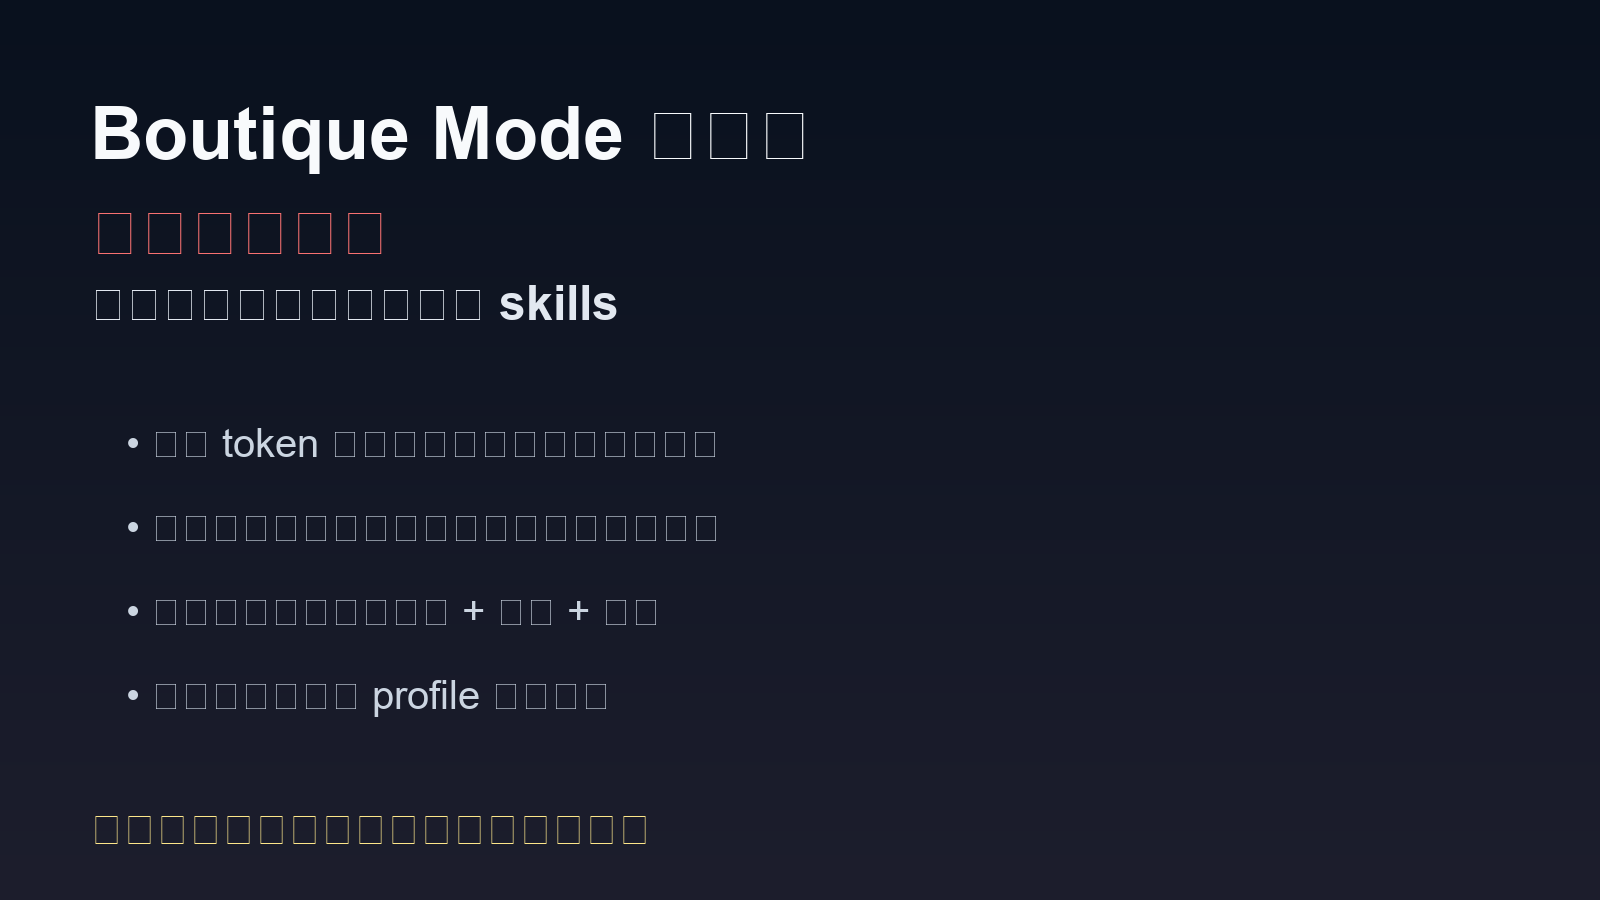
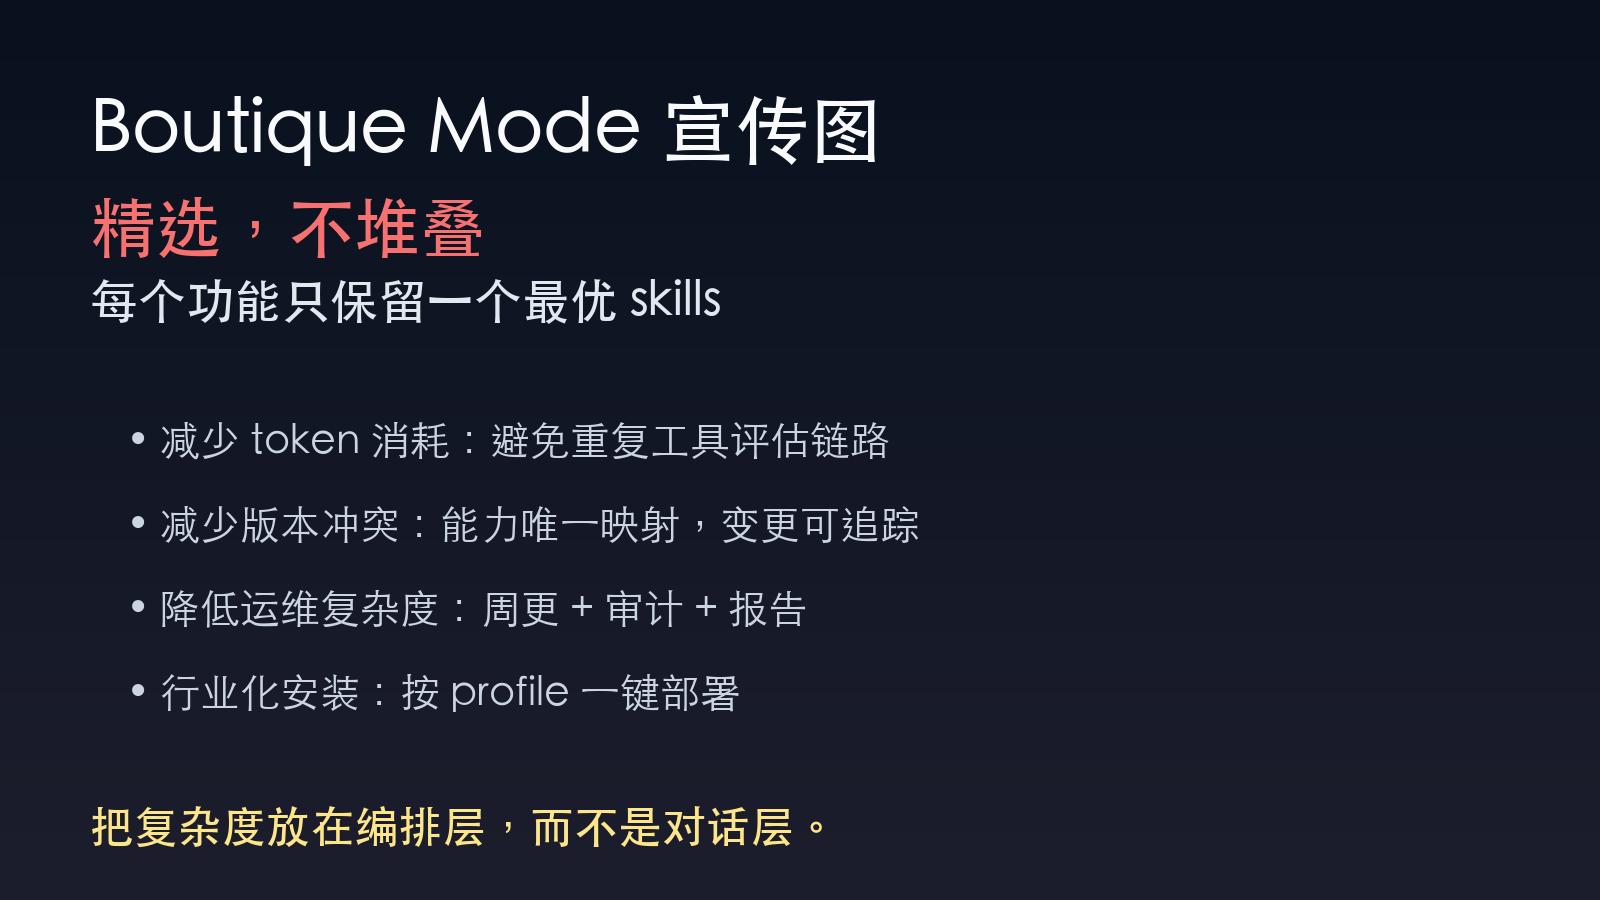
design: fix CJK font rendering in generated assets

diff --git a/scripts/generate_assets.py b/scripts/generate_assets.py
@@ -1,5 +1,6 @@
 #!/usr/bin/env python3
 from pathlib import Path
+import re
 from PIL import Image, ImageDraw, ImageFont
 
 ROOT = Path(__file__).resolve().parents[1]
@@ -7,18 +8,45 @@ ASSETS = ROOT / "assets"
 ASSETS.mkdir(parents=True, exist_ok=True)
 
 
-def pick_font(size: int, bold: bool = False):
-    candidates = []
-    if bold:
-        candidates += [
-            "/System/Library/Fonts/Supplemental/Arial Bold.ttf",
-            "/System/Library/Fonts/Supplemental/Helvetica.ttc",
-        ]
-    candidates += [
-        "/System/Library/Fonts/Supplemental/Arial.ttf",
-        "/System/Library/Fonts/Supplemental/Menlo.ttc",
-        "/System/Library/Fonts/SFNS.ttf",
-    ]
+CJK_RE = re.compile(r"[\u3400-\u4dbf\u4e00-\u9fff\uf900-\ufaff\u3000-\u303f]")
+
+LATIN_BOLD_CANDIDATES = [
+    "/System/Library/Fonts/Supplemental/Arial Bold.ttf",
+    "/System/Library/Fonts/Supplemental/Helvetica.ttc",
+]
+LATIN_REGULAR_CANDIDATES = [
+    "/System/Library/Fonts/Supplemental/Arial.ttf",
+    "/System/Library/Fonts/Supplemental/Menlo.ttc",
+    "/System/Library/Fonts/SFNS.ttf",
+]
+CJK_BOLD_CANDIDATES = [
+    "/System/Library/Fonts/STHeiti Medium.ttc",
+    "/System/Library/Fonts/Hiragino Sans GB.ttc",
+    "/System/Library/Fonts/Supplemental/Arial Unicode.ttf",
+]
+CJK_REGULAR_CANDIDATES = [
+    "/System/Library/Fonts/STHeiti Light.ttc",
+    "/System/Library/Fonts/Hiragino Sans GB.ttc",
+    "/System/Library/Fonts/Songti.ttc",
+    "/System/Library/Fonts/Supplemental/Arial Unicode.ttf",
+]
+
+
+def contains_cjk(text: str) -> bool:
+    return bool(CJK_RE.search(text))
+
+
+def pick_font(size: int, bold: bool = False, text: str = "", prefer_cjk: bool | None = None):
+    if prefer_cjk is None:
+        prefer_cjk = contains_cjk(text)
+
+    if prefer_cjk:
+        candidates = (CJK_BOLD_CANDIDATES if bold else CJK_REGULAR_CANDIDATES) + \
+            LATIN_BOLD_CANDIDATES + LATIN_REGULAR_CANDIDATES
+    else:
+        candidates = (LATIN_BOLD_CANDIDATES if bold else []) + LATIN_REGULAR_CANDIDATES + \
+            CJK_BOLD_CANDIDATES + CJK_REGULAR_CANDIDATES
+
     for c in candidates:
         p = Path(c)
         if p.exists():
@@ -94,13 +122,19 @@ def draw_logo() -> None:
     draw_store_icon(d, 70, 72)
     draw_lobster_icon(d, 1190, 72)
 
-    d.text((340, 110), "BOUTIQUE OPENCLAW SKILLS", font=pick_font(58, bold=True), fill="#f8fafc")
-    d.text((342, 186), "精选店模式  |  一功能一技能  |  稳定优先", font=pick_font(38, bold=True), fill="#f87171")
-    d.text((342, 248), "NO DUPLICATE SKILLS · LOW TOKEN WASTE · AUDITED WEEKLY", font=pick_font(30), fill="#cbd5e1")
-    d.text((342, 304), "Theme: Boutique Store + Lobster", font=pick_font(28), fill="#fde68a")
+    line1 = "BOUTIQUE OPENCLAW SKILLS"
+    line2 = "精选店模式  |  一功能一技能  |  稳定优先"
+    line3 = "NO DUPLICATE SKILLS · LOW TOKEN WASTE · AUDITED WEEKLY"
+    line4 = "Theme: Boutique Store + Lobster"
+    line5 = "github.com/leecyno1/boutique-openclaw-skills"
+
+    d.text((340, 110), line1, font=pick_font(58, bold=True, text=line1), fill="#f8fafc")
+    d.text((342, 186), line2, font=pick_font(38, bold=True, text=line2), fill="#f87171")
+    d.text((342, 248), line3, font=pick_font(30, text=line3), fill="#cbd5e1")
+    d.text((342, 304), line4, font=pick_font(28, text=line4), fill="#fde68a")
 
     d.line((340, 350, 1110, 350), fill="#334155", width=2)
-    d.text((340, 380), "github.com/leecyno1/boutique-openclaw-skills", font=pick_font(27), fill="#93c5fd")
+    d.text((340, 380), line5, font=pick_font(27, text=line5), fill="#93c5fd")
 
     img.save(ASSETS / "logo.png", "PNG")
 
@@ -116,9 +150,12 @@ def draw_hero() -> None:
         b = 30 + int((yy / h) * 15)
         d.line((0, yy, w, yy), fill=(r, g, b))
 
-    d.text((90, 92), "Boutique Mode 宣传图", font=pick_font(74, bold=True), fill="#f8fafc")
-    d.text((90, 194), "精选，不堆叠", font=pick_font(66, bold=True), fill="#f87171")
-    d.text((90, 276), "每个功能只保留一个最优 skills", font=pick_font(48, bold=True), fill="#e2e8f0")
+    title1 = "Boutique Mode 宣传图"
+    title2 = "精选，不堆叠"
+    title3 = "每个功能只保留一个最优 skills"
+    d.text((90, 92), title1, font=pick_font(74, bold=True, text=title1), fill="#f8fafc")
+    d.text((90, 194), title2, font=pick_font(66, bold=True, text=title2), fill="#f87171")
+    d.text((90, 276), title3, font=pick_font(48, bold=True, text=title3), fill="#e2e8f0")
 
     bullets = [
         "减少 token 消耗：避免重复工具评估链路",
@@ -128,10 +165,12 @@ def draw_hero() -> None:
     ]
     y = 420
     for line in bullets:
-        d.text((126, y), "• " + line, font=pick_font(40), fill="#cbd5e1")
+        bullet_line = "• " + line
+        d.text((126, y), bullet_line, font=pick_font(40, text=bullet_line), fill="#cbd5e1")
         y += 84
 
-    d.text((90, 804), "把复杂度放在编排层，而不是对话层。", font=pick_font(44, bold=True), fill="#fde68a")
+    footer = "把复杂度放在编排层，而不是对话层。"
+    d.text((90, 804), footer, font=pick_font(44, bold=True, text=footer), fill="#fde68a")
     img.save(ASSETS / "hero.png", "PNG")
 
 
@@ -141,7 +180,8 @@ def draw_quick_nav() -> None:
     d = ImageDraw.Draw(img)
 
     d.rectangle((0, 0, w, 110), fill="#0f172a")
-    d.text((48, 28), "Repository Quick Navigation", font=pick_font(54, bold=True), fill="#f8fafc")
+    nav_title = "Repository Quick Navigation"
+    d.text((48, 28), nav_title, font=pick_font(54, bold=True, text=nav_title), fill="#f8fafc")
 
     items = [
         "README: 项目总览与安装入口",
@@ -156,11 +196,13 @@ def draw_quick_nav() -> None:
 
     y = 170
     for i, line in enumerate(items, start=1):
-        d.text((70, y), f"{i:02d}. {line}", font=pick_font(38), fill="#1e293b")
+        nav_line = f"{i:02d}. {line}"
+        d.text((70, y), nav_line, font=pick_font(38, text=nav_line), fill="#1e293b")
         d.line((66, y + 54, 1540, y + 54), fill="#e2e8f0", width=2)
         y += 78
 
-    d.text((66, 780), "精品店模式：去重、可维护、可审计、可复制。", font=pick_font(36, bold=True), fill="#dc2626")
+    nav_footer = "精品店模式：去重、可维护、可审计、可复制。"
+    d.text((66, 780), nav_footer, font=pick_font(36, bold=True, text=nav_footer), fill="#dc2626")
     img.save(ASSETS / "profiles.png", "PNG")
 
 
@@ -177,10 +219,10 @@ def draw_svg() -> None:
     <rect x="0" y="90" width="220" height="190" rx="22" fill="#f8fafc" stroke="#cbd5e1" stroke-width="3"/>
     <rect x="-6" y="42" width="232" height="76" rx="18" fill="#ef4444"/>
   </g>
-  <text x="340" y="160" fill="#f8fafc" font-size="58" font-family="Arial, Helvetica, sans-serif">BOUTIQUE OPENCLAW SKILLS</text>
-  <text x="342" y="220" fill="#f87171" font-size="38" font-family="Arial, Helvetica, sans-serif">精选店模式 | 一功能一技能 | 稳定优先</text>
-  <text x="342" y="278" fill="#cbd5e1" font-size="30" font-family="Arial, Helvetica, sans-serif">NO DUPLICATE SKILLS · LOW TOKEN WASTE · AUDITED WEEKLY</text>
-  <text x="342" y="334" fill="#fde68a" font-size="28" font-family="Arial, Helvetica, sans-serif">Theme: Boutique Store + Lobster</text>
+  <text x="340" y="160" fill="#f8fafc" font-size="58" font-family="'Hiragino Sans GB', 'STHeiti', 'Arial Unicode MS', Arial, Helvetica, sans-serif">BOUTIQUE OPENCLAW SKILLS</text>
+  <text x="342" y="220" fill="#f87171" font-size="38" font-family="'Hiragino Sans GB', 'STHeiti', 'Arial Unicode MS', Arial, Helvetica, sans-serif">精选店模式 | 一功能一技能 | 稳定优先</text>
+  <text x="342" y="278" fill="#cbd5e1" font-size="30" font-family="'Hiragino Sans GB', 'STHeiti', 'Arial Unicode MS', Arial, Helvetica, sans-serif">NO DUPLICATE SKILLS · LOW TOKEN WASTE · AUDITED WEEKLY</text>
+  <text x="342" y="334" fill="#fde68a" font-size="28" font-family="'Hiragino Sans GB', 'STHeiti', 'Arial Unicode MS', Arial, Helvetica, sans-serif">Theme: Boutique Store + Lobster</text>
 </svg>
 '''
     (ASSETS / "logo.svg").write_text(svg, encoding="utf-8")
